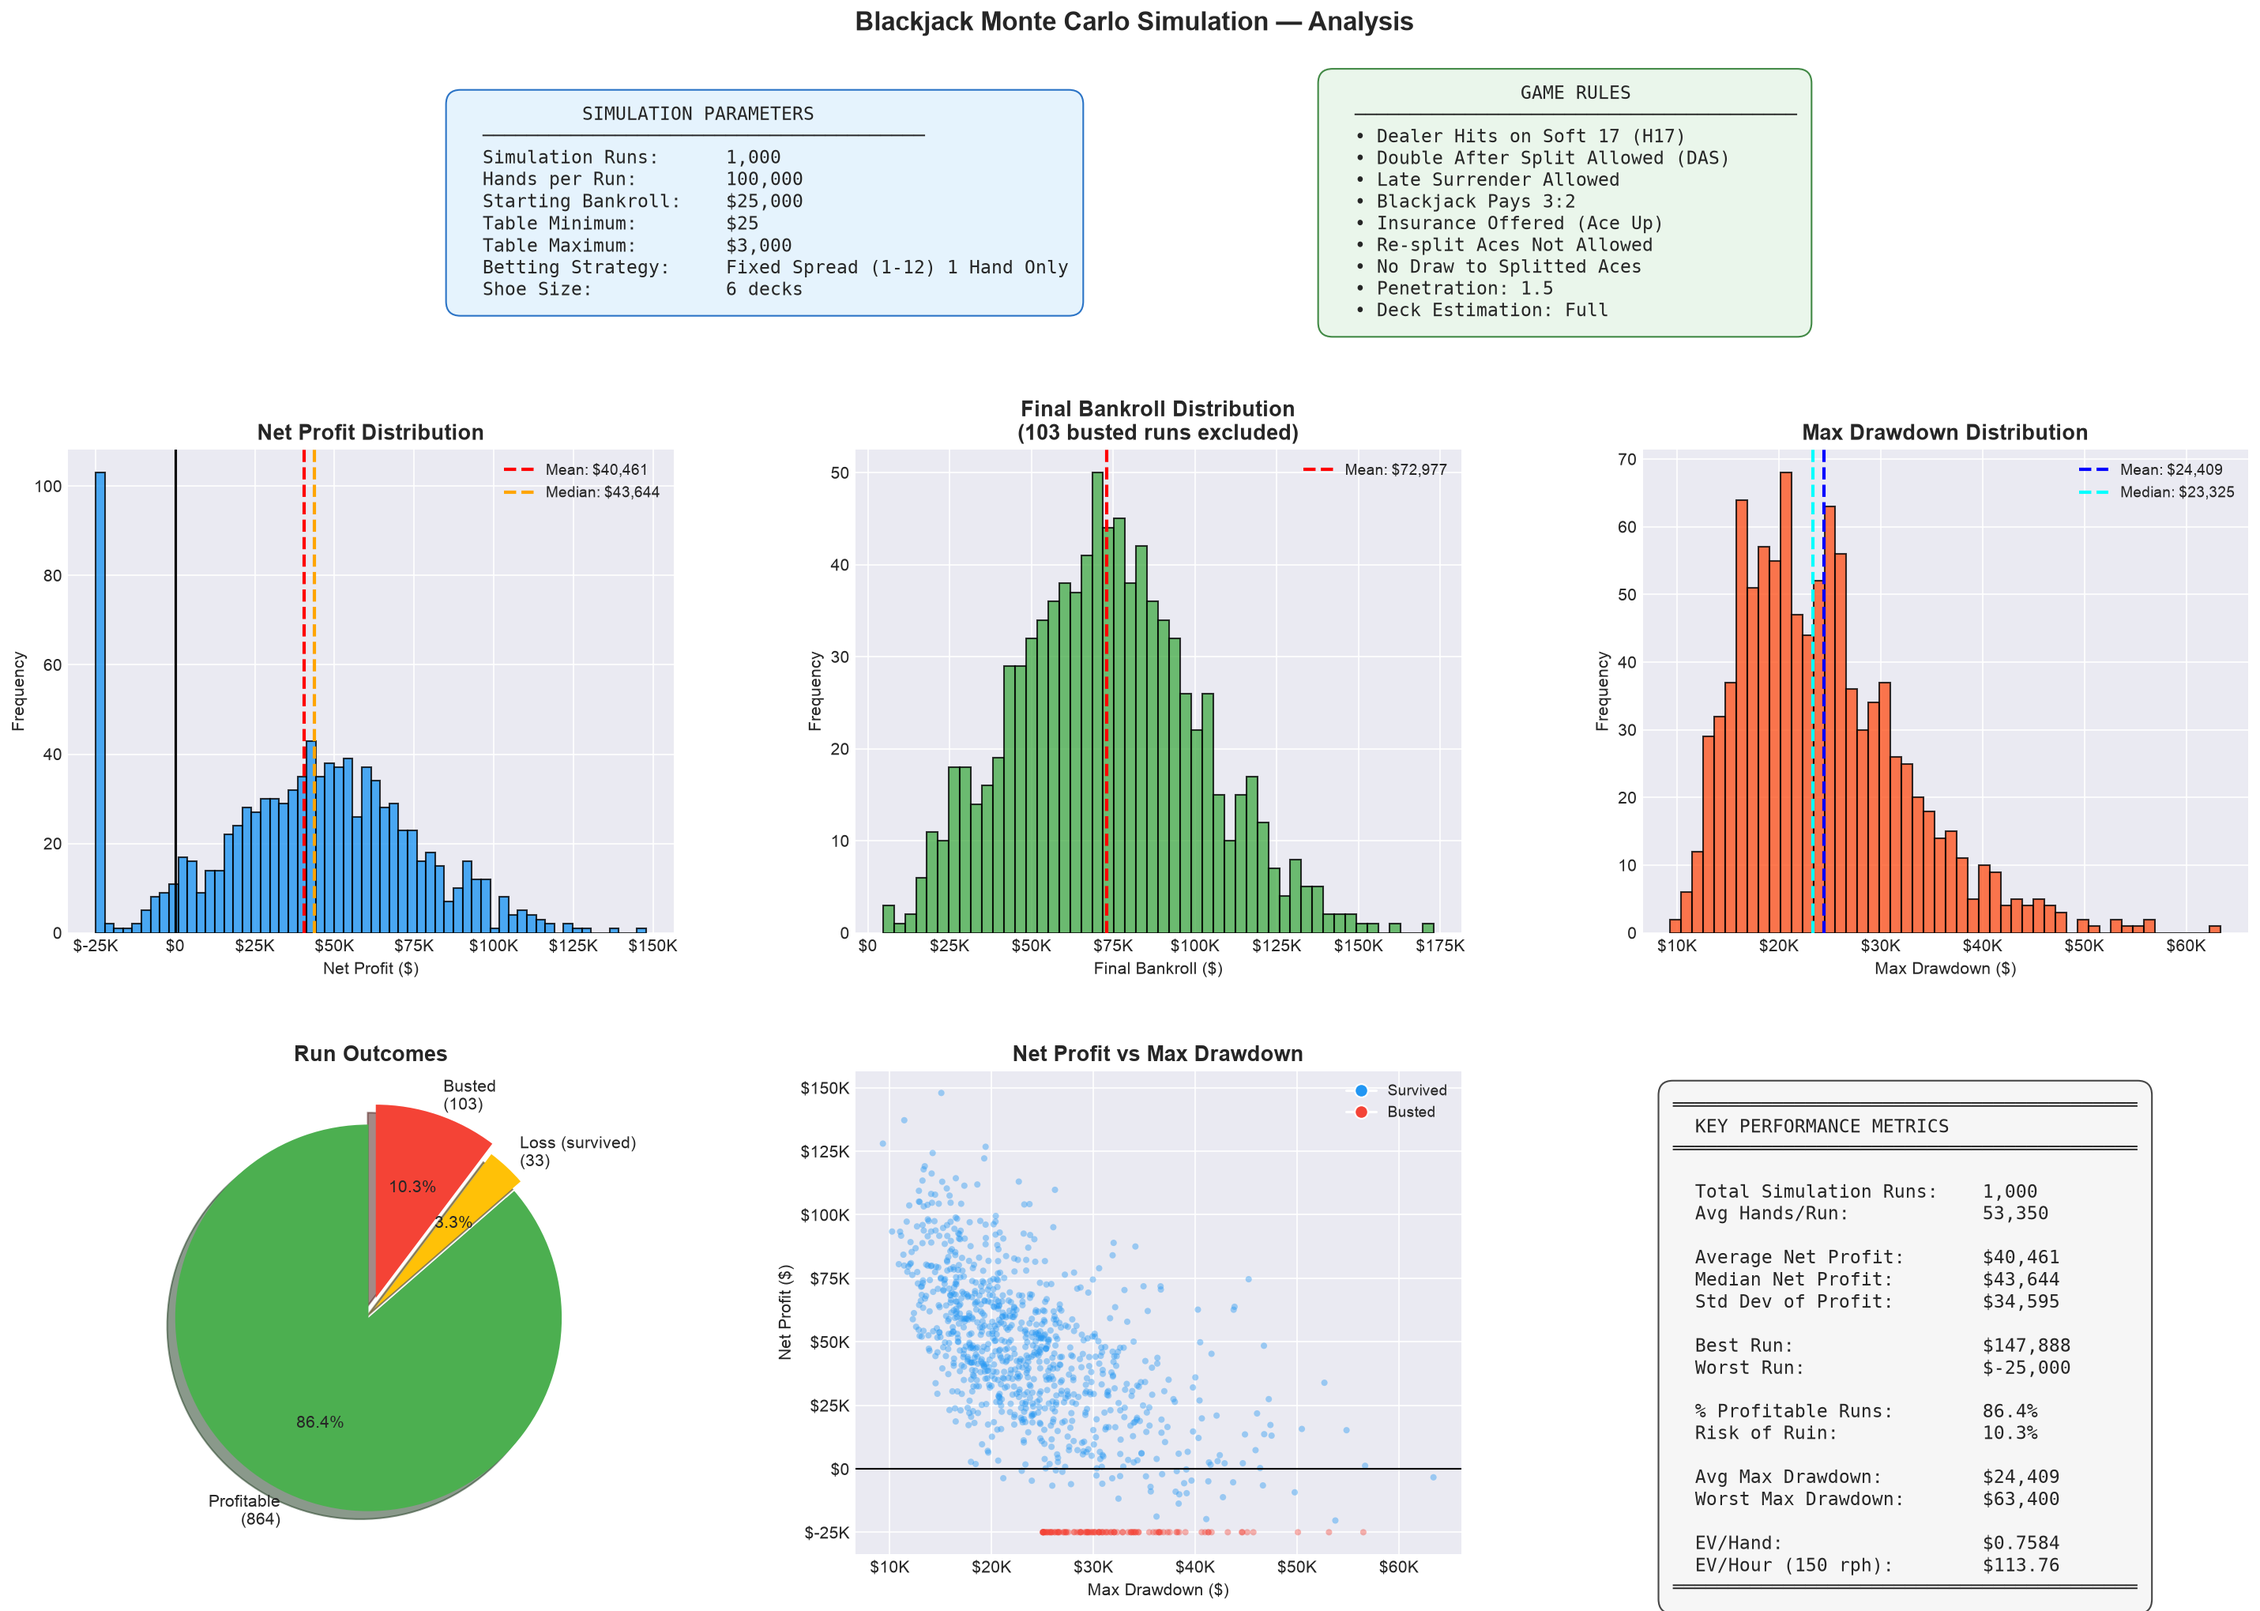
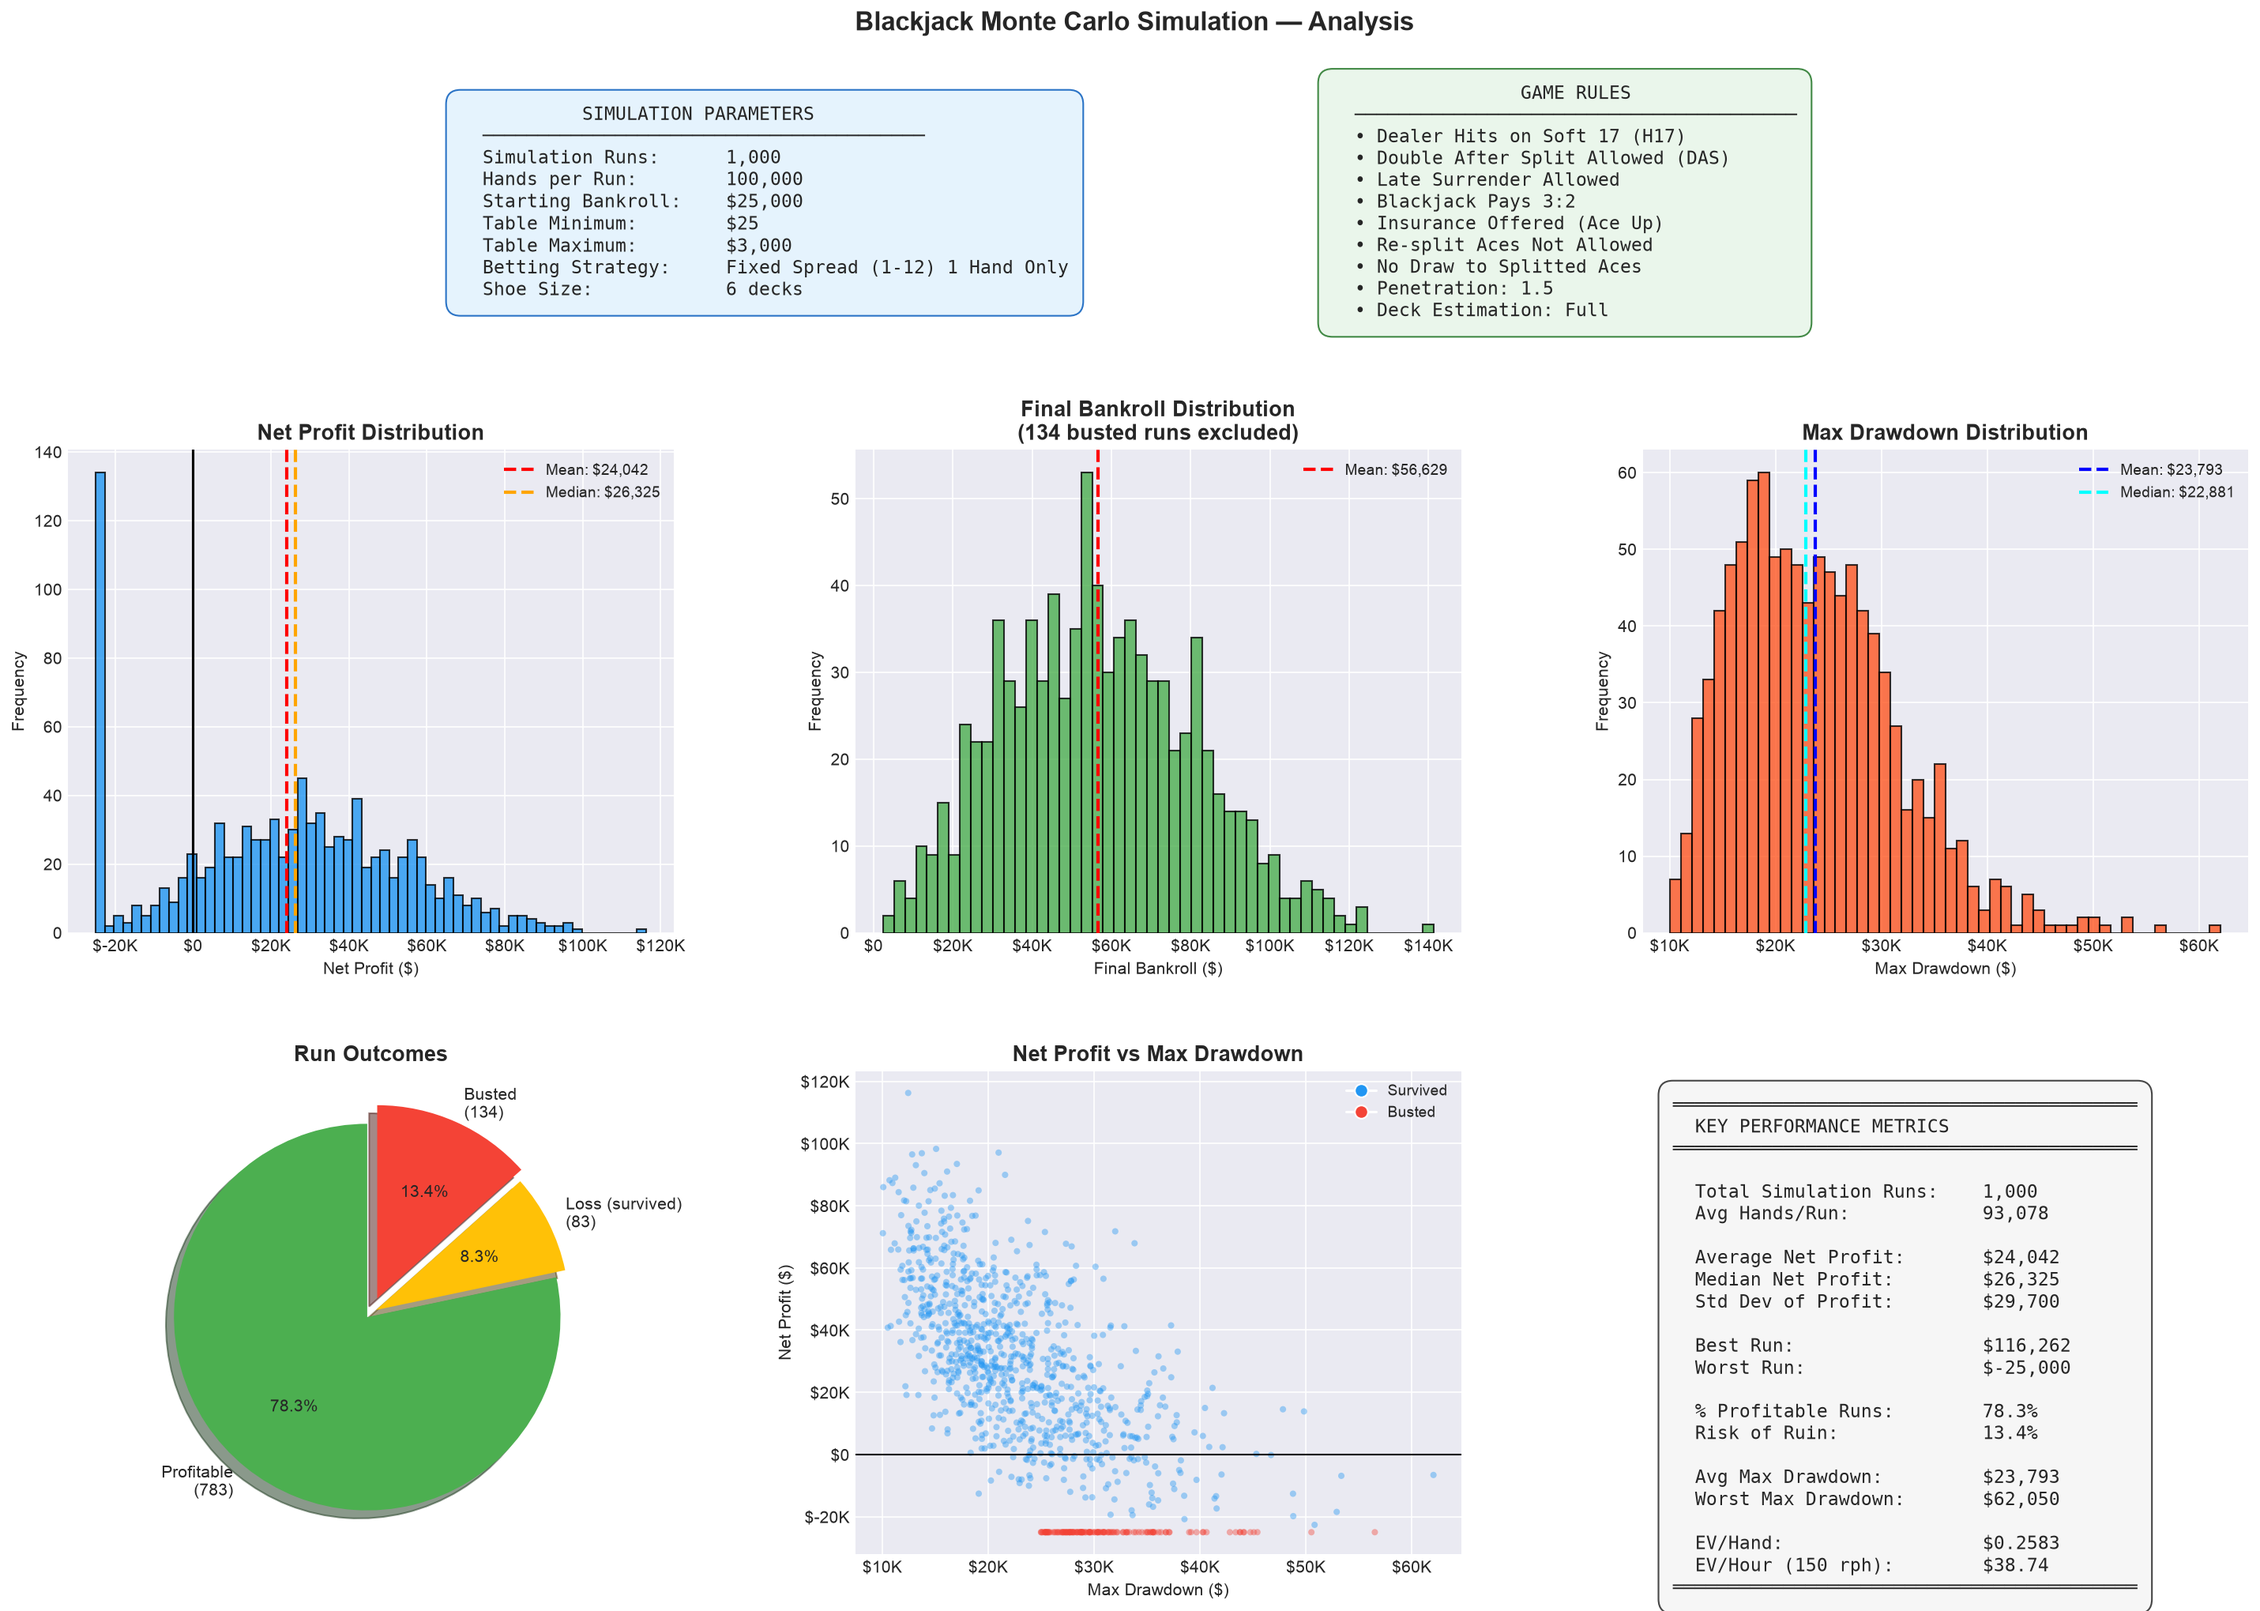
bug fixes

diff --git a/src/com/quantshoe/engine/GameEngine.java b/src/com/quantshoe/engine/GameEngine.java
@@ -91,7 +91,7 @@ public class GameEngine {
         HARD_MATRIX[16][10] = StrategyAction.SURRENDER_16_VS_10_RUNNING_COUNT;
         HARD_MATRIX[12][2] = StrategyAction.DEVIATE_STAND_IF_ABOVE;
         HARD_MATRIX[12][3] = StrategyAction.DEVIATE_STAND_IF_ABOVE;
-
+        HARD_MATRIX[12][4]= StrategyAction.DEVIATE_STAND_IF_RUNNING_ABOVE_ZERO;
         // Illustrious 18 deviations: Double on hard totals when count is high
         HARD_MATRIX[10][10] = StrategyAction.DEVIATE_DOUBLE_IF_ABOVE;
         HARD_MATRIX[10][11] = StrategyAction.DEVIATE_DOUBLE_IF_ABOVE;
@@ -300,6 +300,7 @@ public class GameEngine {
         int activePlayerHandsCount = numHands;
         for (int i = 0; i < numHands; i++) {
             playerHandWagers[i] = baselineWager;
+            currentBankroll -= baselineWager; // Reserve wager upfront
             // Deal initial cards
             playerHands[i][playerHandCardCounts[i]++] = shoe.dealCard().getValue();
             playerHands[i][playerHandCardCounts[i]++] = shoe.dealCard().getValue();
@@ -311,15 +312,15 @@ public class GameEngine {
         int dealerTotal = calculateHandValue(dealerHand, dealerCardCount);
 
         // 1. Insurance check (dealer shows Ace)
-        if (dealerUpcard == 11 && currentBankroll >= (baselineWager * 1.5)) {
+        if (dealerUpcard == 11 && currentBankroll >= (baselineWager * 0.5)) {
             boolean takeInsurance = evaluateInsuranceMatrix(shoe.getTrueCount());
             if (takeInsurance) {
                 double insuranceBet = baselineWager * 0.5;
+                currentBankroll -= insuranceBet; // Reserve insurance bet upfront
                 if (dealerTotal == 21) {
-                    currentBankroll += (insuranceBet * 2.0); // Insurance pays 2:1
-                } else {
-                    currentBankroll = Math.max(0, currentBankroll - insuranceBet);
+                    currentBankroll += (insuranceBet * 3.0); // Return stake + 2:1 payout
                 }
+                // If dealer doesn't have BJ, insurance bet is already lost (reserved above)
             }
         }
 
@@ -330,7 +331,13 @@ public class GameEngine {
             double totalPnL = 0;
             for (int i = 0; i < numHands; i++) {
                 boolean playerBJ = (calculateHandValue(playerHands[i], playerHandCardCounts[i]) == 21);
-                totalPnL += resolveNaturalBlackjacks(playerBJ, true, playerHandWagers[i]);
+                double result = resolveNaturalBlackjacks(playerBJ, true, playerHandWagers[i]);
+                totalPnL += result;
+                // Wager already reserved; return wager on push (both BJ), nothing on loss
+                if (playerBJ) {
+                    currentBankroll += playerHandWagers[i]; // Push — return reserved wager
+                }
+                // If player doesn't have BJ, wager is lost (already reserved)
             }
             return totalPnL;
         }
@@ -346,7 +353,9 @@ public class GameEngine {
         if (allPlayerBJ) {
             double totalPnL = 0;
             for (int i = 0; i < numHands; i++) {
-                totalPnL += resolveNaturalBlackjacks(true, false, playerHandWagers[i]);
+                double payout = playerHandWagers[i] * 1.5;
+                currentBankroll += playerHandWagers[i] + payout; // Return wager + 3:2 payout
+                totalPnL += payout;
             }
             return totalPnL;
         }
@@ -356,7 +365,7 @@ public class GameEngine {
             if (!playerHandNaturalBJ[i] && allowLateSurrender
                     && evaluateSurrenderMatrix(playerHands[i], dealerUpcard, shoe.getTrueCount(), shoe.getRunningCount())) {
                 playerHandSurrendered[i] = true;
-                currentBankroll = Math.max(0, currentBankroll - (playerHandWagers[i] * 0.5));
+                currentBankroll += (playerHandWagers[i] * 0.5); // Return half the reserved wager
             }
         }
 
@@ -378,6 +387,7 @@ public class GameEngine {
                     playerHands[newHandIdx][0] = playerHands[h][1]; // Move 2nd card to new hand
                     playerHandCardCounts[newHandIdx] = 1;
                     playerHandWagers[newHandIdx] = playerHandWagers[h];
+                    currentBankroll -= playerHandWagers[newHandIdx]; // Reserve wager for split hand
 
                     // Reset original hand to 1 card
                     playerHandCardCounts[h] = 1;
@@ -402,7 +412,7 @@ public class GameEngine {
             if (playerHandFromSplitAces[h]) {
                 if (calculateHandValue(playerHands[h], playerHandCardCounts[h]) > 21) {
                     playerHandBusted[h] = true;
-                    currentBankroll = Math.max(0, currentBankroll - playerHandWagers[h]);
+                    // Wager already reserved — no further deduction needed
                 }
                 continue;
             }
@@ -419,6 +429,7 @@ public class GameEngine {
                 switch (decision) {
                     case DOUBLE:
                         if (playerHandCardCounts[h] == 2 && currentBankroll >= playerHandWagers[h]) {
+                            currentBankroll -= playerHandWagers[h]; // Reserve additional wager for double
                             playerHandWagers[h] *= 2.0;
                             playerHands[h][playerHandCardCounts[h]++] = shoe.dealCard().getValue();
                             handActive = false; // Only one card on a double
@@ -442,7 +453,7 @@ public class GameEngine {
             // Flag bust conditions
             if (calculateHandValue(playerHands[h], playerHandCardCounts[h]) > 21) {
                 playerHandBusted[h] = true;
-                currentBankroll = Math.max(0, currentBankroll - playerHandWagers[h]);
+                // Wager already reserved — no further deduction needed
             }
         }
 
@@ -468,34 +479,36 @@ public class GameEngine {
             }
         }
 
-        // 5. Settle all hands
+        // 5. Settle all hands (wagers already reserved from bankroll)
         double totalRoundPnL = 0.0;
         for (int h = 0; h < activePlayerHandsCount; h++) {
             if (playerHandSurrendered[h]) {
                 totalRoundPnL -= (playerHandWagers[h] * 0.5);
-                continue;
+                continue; // Half already returned at surrender time
             }
             if (playerHandBusted[h]) {
                 totalRoundPnL -= playerHandWagers[h];
-                continue;
+                continue; // Wager already lost (reserved)
             }
 
             int pTotal = calculateHandValue(playerHands[h], playerHandCardCounts[h]);
             // Natural BJ pays 3:2 (only possible on non-split initial hands)
             if (playerHandNaturalBJ[h]) {
                 double payout = playerHandWagers[h] * 1.5;
-                currentBankroll += payout;
+                currentBankroll += playerHandWagers[h] + payout; // Return wager + 3:2 payout
                 totalRoundPnL += payout;
                 continue;
             }
             if (dealerTotal > 21 || pTotal > dealerTotal) {
-                currentBankroll += playerHandWagers[h];
+                currentBankroll += playerHandWagers[h] * 2.0; // Return wager + 1:1 payout
                 totalRoundPnL += playerHandWagers[h];
             } else if (pTotal < dealerTotal) {
-                currentBankroll = Math.max(0, currentBankroll - playerHandWagers[h]);
+                // Wager already reserved — lost
                 totalRoundPnL -= playerHandWagers[h];
+            } else {
+                // Push — return reserved wager
+                currentBankroll += playerHandWagers[h];
             }
-            // Pushes add 0.0 to PnL
         }
 
         return totalRoundPnL;
@@ -624,7 +637,8 @@ public class GameEngine {
 
             case DEVIATE_STAND_IF_BELOW:
                 return (trueCount <= threshold) ? Decision.STAND : Decision.HIT;
-
+            case DEVIATE_STAND_IF_RUNNING_ABOVE_ZERO:
+                return (shoe.getRunningCount() >= 0) ? Decision.STAND : Decision.HIT;
             case DEVIATE_DOUBLE_IF_ABOVE:
                 if (count == 2) {
                     return (trueCount >= threshold) ? Decision.DOUBLE : Decision.HIT;
@@ -723,16 +737,17 @@ public class GameEngine {
         return aceCount > 0;
     }
 
+    /**
+     * Resolves natural blackjack outcomes. Returns PnL only; bankroll adjustments
+     * are handled by the caller since wagers are reserved upfront.
+     */
     private double resolveNaturalBlackjacks(boolean playerBJ, boolean dealerBJ, double wager) {
         if (playerBJ && !dealerBJ) {
-            double payout = wager * 1.5;
-            currentBankroll += payout;
-            return payout;
+            return wager * 1.5; // 3:2 payout (caller handles bankroll)
         } else if (!playerBJ && dealerBJ) {
-            currentBankroll = Math.max(0, currentBankroll - wager);
-            return -wager;
+            return -wager; // Loss (wager already reserved by caller)
         }
-        return 0; // Push
+        return 0; // Push (caller handles bankroll)
     }
 
     private void resetRoundState() {

diff --git a/src/com/quantshoe/core/Shoe.java b/src/com/quantshoe/core/Shoe.java
@@ -9,6 +9,7 @@ public final class Shoe {
     private final Random random;
 
     private int topCardIndex;
+
     private int runningCount;
 
     public Shoe(int totalDecks) {
@@ -99,6 +100,9 @@ public final class Shoe {
     // High-utility diagnostic getters
     public int getRunningCount() {
         return this.runningCount;
+    }
+    public void setRunningCount(int runningCount) {
+        this.runningCount = runningCount;
     }
 
     public int getCardsRemaining() {

diff --git a/src/com/quantshoe/risk/FixedSpreadBettingEngine.java b/src/com/quantshoe/risk/FixedSpreadBettingEngine.java
@@ -82,7 +82,7 @@ public final class FixedSpreadBettingEngine implements BettingStrategy {
 
     @Override
     public double calculateOptimalWager(double trueCount, double currentBankroll) {
-        int index = (int) trueCount - startTC;
+        int index = (int) Math.floor(trueCount) - startTC;
         if (index < 0) return tableMin;
         if (index >= ramp.length) index = ramp.length - 1;
         return Math.min(tableMin * ramp[index], tableMax);

diff --git a/src/com/quantshoe/Main.java b/src/com/quantshoe/Main.java
@@ -33,7 +33,7 @@ public final class Main {
 
         String gameMode = "H17";
         String bettingMode = "fixed";
-        String deckEstimationMode = "quarter";
+        String deckEstimationMode = "full";
         String rampStr = "1,2,6,10,12";
         int rampStart = 1;
         String outputFilePath = "quant_blackjack_results.csv";
